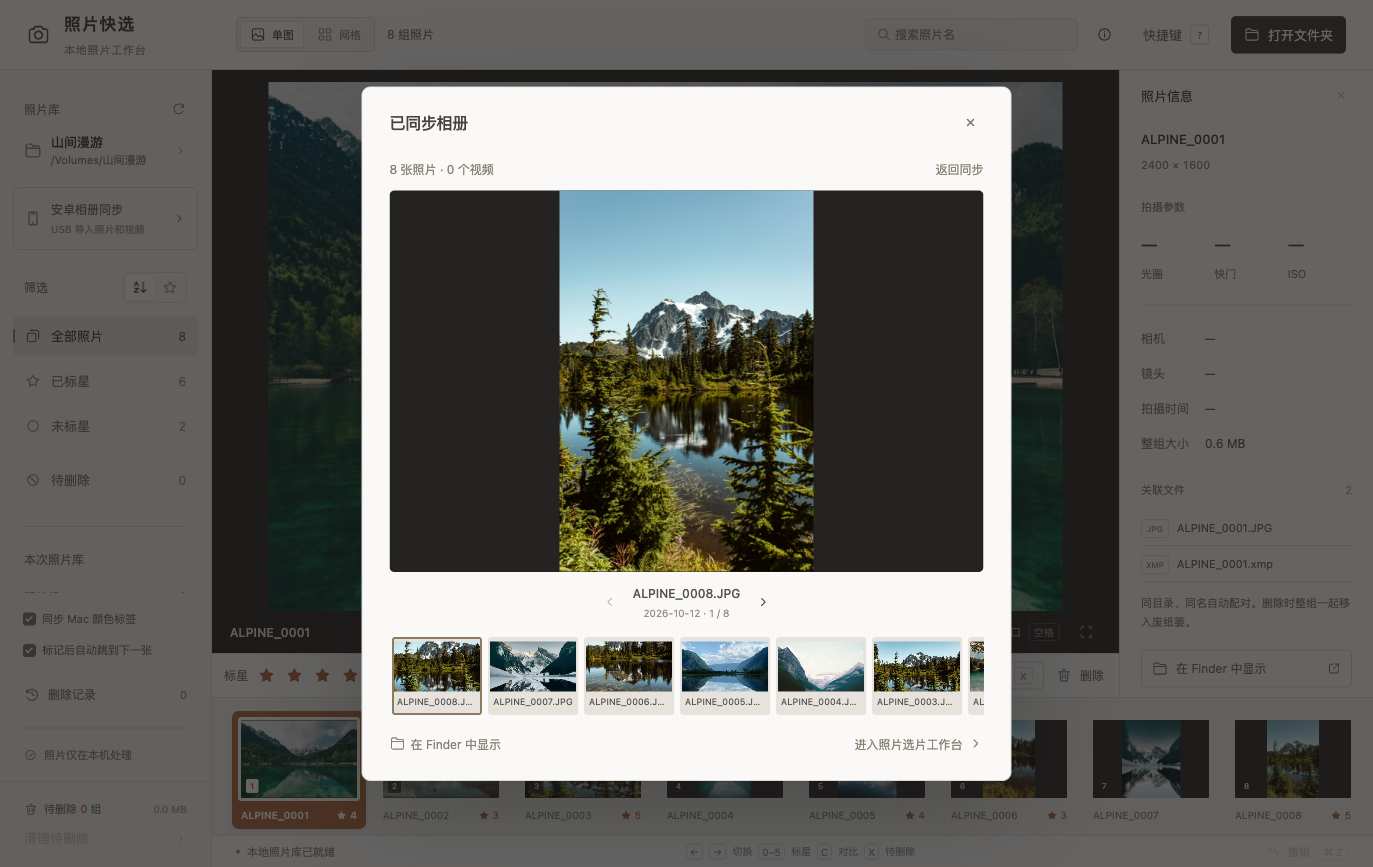
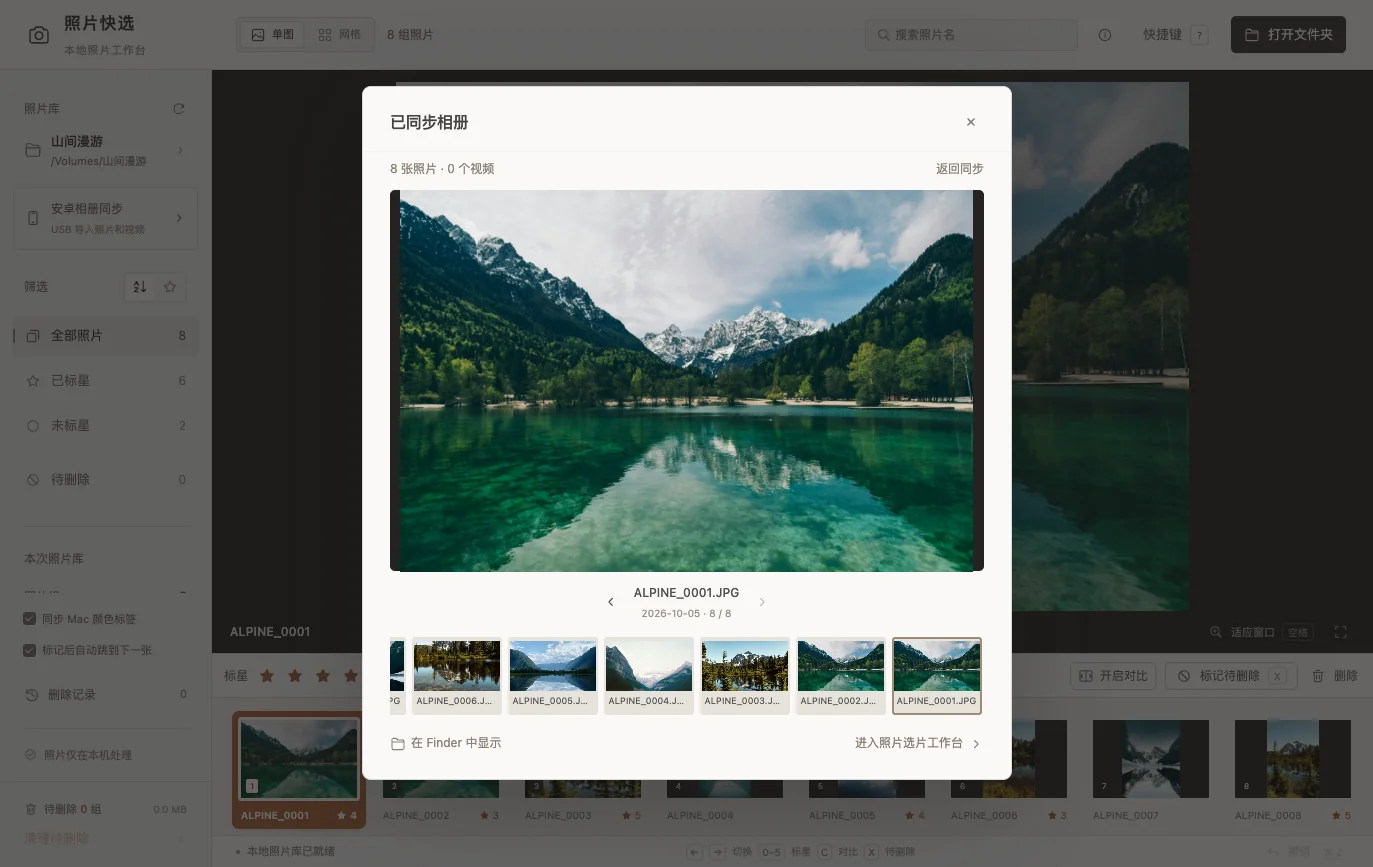
docs: 统一使用第一张湖景重拍产品截图
# 改动范围
重拍单图、左右对比、网格、USB 同步和同步后预览，主图统一采用第一张碧绿湖景。
同步首页、产品页与 README 的截图资源和素材说明，更新图片缓存版本。

# 改动影响
访客看到统一的湖景主图，旧截图缓存通过新资源版本更新。
对比使用同一公开照片的两份演示副本，界面由实际应用拍摄。

# 验证
人工核对五张截图，确认图片已加载、主图及网格选中项正确。
检查截图尺寸、仓库间资源一致性、文档引用和公开内容；应用代码与安装包未改动。

diff --git a/photo-select/index.html b/photo-select/index.html
@@ -7,7 +7,7 @@
   <meta name="description" content="下载照片快选 1.3.2 macOS 应用。USB 同步安卓照片和视频，按日期选择、增量备份并自动预览；支持照片标星、RAW 整理与 Finder 标签。">
   <meta property="og:title" content="照片快选 · 专注于选片的 Mac 小工具">
   <meta property="og:description" content="USB 同步安卓照片与视频，按时间范围选择，同步后自动预览。大图选片、左右对比与网格整理，原文件保存在本机。">
-  <meta property="og:image" content="https://cxdy.top/assets/images/photo-select-single.webp">
+  <meta property="og:image" content="https://cxdy.top/assets/images/photo-select-single.webp?v=1.3.2-lake">
   <meta property="og:url" content="https://cxdy.top/photo-select/">
   <meta property="og:type" content="website">
   <meta property="og:site_name" content="爨乡的云">
@@ -37,7 +37,7 @@
         </div>
       </section>
       <figure class="product-shot hero-shot">
-        <a class="screenshot-link" href="/assets/images/photo-select-single.webp" target="_blank" rel="noopener" aria-label="查看单图选片原尺寸截图（在新标签页打开）"><img src="/assets/images/photo-select-single.webp" width="1373" height="867" fetchpriority="high" decoding="async" alt="照片快选真实界面：中央大图预览山湖照片，底部胶片条定位当前照片，左侧筛选，工具栏支持五级标星与待删除标记。"></a>
+        <a class="screenshot-link" href="/assets/images/photo-select-single.webp?v=1.3.2-lake" target="_blank" rel="noopener" aria-label="查看单图选片原尺寸截图（在新标签页打开）"><img src="/assets/images/photo-select-single.webp?v=1.3.2-lake" width="1373" height="867" fetchpriority="high" decoding="async" alt="照片快选真实界面：中央大图预览山湖照片，底部胶片条定位当前照片，左侧筛选，工具栏支持五级标星与待删除标记。"></a>
         <figcaption><span><b>01 / 单图选片</b> 大图看细节，胶片条看前后。</span><span class="shot-shortcut"><kbd>←</kbd><kbd>→</kbd> 切图 <kbd>0–5</kbd> 标星 <kbd>X</kbd> 待删除</span></figcaption>
       </figure>
       <section class="tool-features" aria-label="主要功能">
@@ -49,11 +49,11 @@
         <div class="gallery-heading"><div><p class="eyebrow">1.3.2 · 安卓相册同步</p><h2 id="sync-title">从手机到电脑，只选需要的。</h2></div><p>按时间和相册选择，传输有进度，完成即预览。</p></div>
         <div class="screen-pair">
           <figure class="product-shot">
-            <a class="screenshot-link" href="/assets/images/photo-select-usb.webp" target="_blank" rel="noopener" aria-label="查看安卓相册同步原尺寸截图（在新标签页打开）"><img src="/assets/images/photo-select-usb.webp" width="1373" height="867" loading="lazy" decoding="async" alt="安卓相册同步界面：选择照片和视频、某天之后的拍摄时间与相机相册，原文件复制到电脑。"></a>
+            <a class="screenshot-link" href="/assets/images/photo-select-usb.webp?v=1.3.2-lake" target="_blank" rel="noopener" aria-label="查看安卓相册同步原尺寸截图（在新标签页打开）"><img src="/assets/images/photo-select-usb.webp?v=1.3.2-lake" width="1373" height="867" loading="lazy" decoding="async" alt="安卓相册同步界面：选择照片和视频、某天之后的拍摄时间与相机相册，原文件复制到电脑。"></a>
             <figcaption><b>USB 同步 / 按时间选择</b><p>仅照片、仅视频或一起同步。默认最近 30 天，也可选择日期范围；保存到「相机」「微信」等易读文件夹，同名时用数字区分。</p></figcaption>
           </figure>
           <figure class="product-shot">
-            <a class="screenshot-link" href="/assets/images/photo-select-album.webp" target="_blank" rel="noopener" aria-label="查看同步后相册预览原尺寸截图（在新标签页打开）"><img src="/assets/images/photo-select-album.webp" width="1373" height="867" loading="lazy" decoding="async" alt="同步后的相册预览：大图浏览公开山湖照片，下方切换文件，并可进入照片选片工作台。"></a>
+            <a class="screenshot-link" href="/assets/images/photo-select-album.webp?v=1.3.2-lake" target="_blank" rel="noopener" aria-label="查看同步后相册预览原尺寸截图（在新标签页打开）"><img src="/assets/images/photo-select-album.webp?v=1.3.2-lake" width="1373" height="867" loading="lazy" decoding="async" alt="同步后的相册预览：大图浏览公开山湖照片，下方切换文件，并可进入照片选片工作台。"></a>
             <figcaption><b>同步完成 / 自动预览</b><p>成功后自动进入本次所选范围的相册。照片大图查看，视频直接播放；无法解码的视频可在 Finder 中用本地播放器打开。</p></figcaption>
           </figure>
         </div>
@@ -63,15 +63,15 @@
         <div class="gallery-heading"><div><p class="eyebrow">实际使用</p><h2 id="screens-title">并排比较，一屏浏览。</h2></div><p>从细节到整组，找到适合此刻的看图方式。</p></div>
         <div class="screen-pair">
           <figure class="product-shot">
-            <a class="screenshot-link" href="/assets/images/photo-select-compare.webp" target="_blank" rel="noopener" aria-label="查看左右对比原尺寸截图（在新标签页打开）"><img src="/assets/images/photo-select-compare.webp" width="1373" height="867" loading="lazy" decoding="async" alt="左右对比真实界面：左侧显示上一张山湖照片，右侧显示当前照片，下方保留标星工具和胶片条。"></a>
+            <a class="screenshot-link" href="/assets/images/photo-select-compare.webp?v=1.3.2-lake" target="_blank" rel="noopener" aria-label="查看左右对比原尺寸截图（在新标签页打开）"><img src="/assets/images/photo-select-compare.webp?v=1.3.2-lake" width="1373" height="867" loading="lazy" decoding="async" alt="左右对比真实界面：两侧展示同一张碧绿湖景的演示副本，下方保留标星工具和胶片条。"></a>
             <figcaption><b>02 / 左右对比</b><p>按 <kbd>C</kbd>，上一张在左，当前照片在右。比较构图与表情，标星始终作用于当前照片。</p></figcaption>
           </figure>
           <figure class="product-shot">
-            <a class="screenshot-link" href="/assets/images/photo-select-grid.webp" target="_blank" rel="noopener" aria-label="查看网格浏览原尺寸截图（在新标签页打开）"><img src="/assets/images/photo-select-grid.webp" width="1373" height="867" loading="lazy" decoding="async" alt="网格浏览真实界面：八张测试风景照片按网格排列，铜色边框标示当前选择，顶部滑杆调整缩略图大小。"></a>
+            <a class="screenshot-link" href="/assets/images/photo-select-grid.webp?v=1.3.2-lake" target="_blank" rel="noopener" aria-label="查看网格浏览原尺寸截图（在新标签页打开）"><img src="/assets/images/photo-select-grid.webp?v=1.3.2-lake" width="1373" height="867" loading="lazy" decoding="async" alt="网格浏览真实界面：八张测试风景照片按网格排列，铜色边框标示当前选择，顶部滑杆调整缩略图大小。"></a>
             <figcaption><b>03 / 网格浏览</b><p>拖动滑杆调整缩略图大小，方向键就近选片。选中后按空格，直接进入单图预览。</p></figcaption>
           </figure>
         </div>
-        <p class="screenshot-note">以上均为应用实际截图，使用公开风景素材演示。点击图片可查看原尺寸。<a href="/photo-select/素材说明.md">素材来源与许可<span class="sr-only">（Markdown 文档）</span></a></p>
+        <p class="screenshot-note">以上均为应用实际截图，使用公开风景素材演示；对比图使用第一张湖景的两份副本。点击图片可查看原尺寸。<a href="/photo-select/素材说明.md">素材来源与许可<span class="sr-only">（Markdown 文档）</span></a></p>
       </section>
       <section class="start-guide" aria-labelledby="usb-guide-title">
         <div><p class="eyebrow">手机照片与视频</p><h2 id="usb-guide-title">一根线，存到电脑。</h2></div>

diff --git a/index.html b/index.html
@@ -46,7 +46,7 @@
           <div class="project-art" aria-hidden="true">
             <div class="art-grid"></div>
             <span class="art-coordinate coordinate-top">照片快选 / 01</span>
-            <img class="product-preview real-preview" src="/assets/images/photo-select-single.webp" alt="" width="1373" height="867" fetchpriority="high" decoding="async">
+            <img class="product-preview real-preview" src="/assets/images/photo-select-single.webp?v=1.3.2-lake" alt="" width="1373" height="867" fetchpriority="high" decoding="async">
             <div class="art-caption"><span class="caption-line"></span>真实界面 · 单图选片<span class="caption-line"></span></div>
           </div>
         </a>

diff --git a/photo-select/素材说明.md b/photo-select/素材说明.md
@@ -1,15 +1,15 @@
 # 产品截图素材说明
 
-截图于 2026-10-12 从实际运行的照片快选应用中拍摄，未修改应用布局或伪造功能。演示照片库使用公开风景素材，不含用户私人照片；文件夹挂载为 `/Volumes/山间漫游`，不展示个人目录。
+截图于 2026-10-13 从实际运行的照片快选 1.3.2 应用中重拍，未修改应用布局。演示照片库使用公开风景素材，不含用户私人照片；文件夹挂载为 `/Volumes/山间漫游`，不展示个人目录。
 
-2026-10-13 新增「USB 同步」与「同步后相册预览」两张截图，从 1.3.2 实际运行界面拍摄，沿用以下公开照片组成演示相册。USB 设备与拍摄日期由演示服务提供，未读取真实手机；复制、日期筛选与完成后自动预览均使用应用原有流程。截图明确显示「Android 演示手机」，不作为真机连接截图。
+单图和同步预览以第一张碧绿湖景 `ALPINE_0001.JPG` 为主图，网格选中第一张；对比使用该照片及其副本 `ALPINE_0002.JPG`，展示两侧界面。其他缩略图沿用以下公开素材。USB 设备与拍摄日期由演示服务提供，未读取真实手机；复制、日期筛选与完成后自动预览均使用应用原有流程。截图明确显示「Android 演示手机」，不作为真机连接截图。
 
 以下照片依照 [Unsplash License](https://unsplash.com/license) 下载并用于产品界面演示，摄影作品版权归原作者。这里仅分发应用截图，不分发照片原文件。截图中使用 JPG 测试素材，RAW 成组整理能力另由副本测试验证。
 
 | 演示文件 | 作者 | 原始作品 |
 | --- | --- | --- |
 | ALPINE_0001.JPG | Adam Vradenburg | [Unsplash](https://unsplash.com/photos/GA09PKfRIQY) |
-| ALPINE_0002.JPG | Claudia Chiavazza | [Unsplash](https://unsplash.com/photos/N9vsB6OEeKM) |
+| ALPINE_0002.JPG（第一张的演示副本） | Adam Vradenburg | [Unsplash](https://unsplash.com/photos/GA09PKfRIQY) |
 | ALPINE_0003.JPG | Nathan Dumlao | [Unsplash](https://unsplash.com/photos/q3YZ4g7j9yc) |
 | ALPINE_0004.JPG | Daniel Roe | [Unsplash](https://unsplash.com/photos/lpjb_UMOyx8) |
 | ALPINE_0005.JPG | Alexey Murzin | [Unsplash](https://unsplash.com/photos/T8-Y9IwPFxE) |

diff --git a/README.md b/README.md
@@ -18,17 +18,17 @@
 
 [查看产品发布页](https://cxdy.top/photo-select/)
 
-![单图预览与标星](assets/images/photo-select-single.webp)
+![单图预览与标星](assets/images/photo-select-single.webp?v=1.3.2-lake)
 
 | 左右对比 | 网格浏览 |
 | --- | --- |
-| ![左右对比](assets/images/photo-select-compare.webp) | ![网格浏览](assets/images/photo-select-grid.webp) |
+| ![左右对比](assets/images/photo-select-compare.webp?v=1.3.2-lake) | ![网格浏览](assets/images/photo-select-grid.webp?v=1.3.2-lake) |
 
 截图来自实际运行的应用。单图看细节、按 C 并排比较、网格大小可调。[素材来源与许可](photo-select/素材说明.md)。
 
 | USB 同步 | 同步后相册预览 |
 | --- | --- |
-| ![按日期、类型和相册选择](assets/images/photo-select-usb.webp) | ![同步后自动进入相册](assets/images/photo-select-album.webp) |
+| ![按日期、类型和相册选择](assets/images/photo-select-usb.webp?v=1.3.2-lake) | ![同步后自动进入相册](assets/images/photo-select-album.webp?v=1.3.2-lake) |
 
 新增截图使用公开风景素材组成的演示相册，设备与拍摄日期为演示数据，未读取真实手机或私人相册。
 
